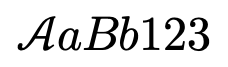
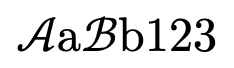
issue #94: old-style font declarations scope rest of group; boldsymbol is bm
- parse: rm/it/bf/sf/tt/cal take no argument — new formula-loop arm
  parses rest-of-group (KaTeX 0.18.7 parity, probed: full-run scope,
  braces do not scope, stops at infix via infix_stop so \\bf a\\over b
  bolds the numerator only, empty body ok). New-style \\mathbf etc.
  keep group-or-atom (parseCtrl unchanged).
- \\boldsymbol maps to .bolditalic (was .bold): pinned KaTeX shows
  \\boldsymbol identical to \\bm on letters/digits/Greek/symbols;
  CLI renders pixel-identical to \\bm{AaBb} (slant + weight).
- mathml: row-sole threading (nodeSole) — sole multi-atom font
  bodies splice flat like .delim/.style; mstyle stays off the merge
  stack so \\bf 12 folds to one mn (all KaTeX-probed).
- parity: singleChildMrow counts through dropped wrappers; void
  mi-around-mrow (KaTeX \\boldsymbol artifact) drops. tolerance.md.
- tests: qa83 red-verified (decl/group/over/boldsymbol); goldens
  t-bf/bf/t-cal/cal/t-rm/rm/t-sf/sf/t-tt/tt/fonts2 + issue34 row;
  corpus pins boldsymbol-letters/decl-group/decl-over; sweep 1271.
- renders: bf/boldsymbol/cal/rm/sf/tt regenerated (it unchanged:
  mathit is the default face).

Follow-ups filed: #110 (color/style consume through \\over),
#111 (declarations in script/arg position).
Size gate still FAIL (owner approval pending): +4624 total (+1344
this change, subset __TEXT).

Tests: core 243/243 (parity 1269 accept, baseline 1266 + 3 new),
png 24/26 (2 env-skips, unchanged), software backend same,
gallery builds, check_backends.sh ok.

Changed region(s): [[0.0614, 0.2388, 0.9211, 0.7761]]

diff --git a/docs/tolerance.md b/docs/tolerance.md
@@ -39,6 +39,15 @@ MathML text, never rendered pixels.
   (e.g. `\phase{30}` yields `menclose` + `mn` directly); our emitter
   wraps every multi-leaf group. One child in a row groups nothing, so
   the shell carries identical layout meaning on both sides.
+  Effective children count through dropped wrappers (issue #94): a
+  lone `mstyle mathvariant` / `mrow href` shell does not single the
+  row — our sole-font splice puts N leaves under one `mstyle`,
+  matching KaTeX's flat row leaf-for-leaf (`\bf AaBb12`).
+- A void `mi`-around-`mrow` shell drops (issue #94): KaTeX builds
+  `\boldsymbol` / `\bm` bodies as `<mi><mrow>…</mrow></mi>`
+  (pinned 0.18.7) — an `mi` around non-text carries no layout
+  meaning, so dropping it equates KaTeX's quirk with our flat
+  `mstyle`-wrapped row. Text-only `mi` leaves never match.
 
 Adding a normalization requires a comment here explaining why the two
 shapes carry identical layout meaning. Normalizations never hide an
